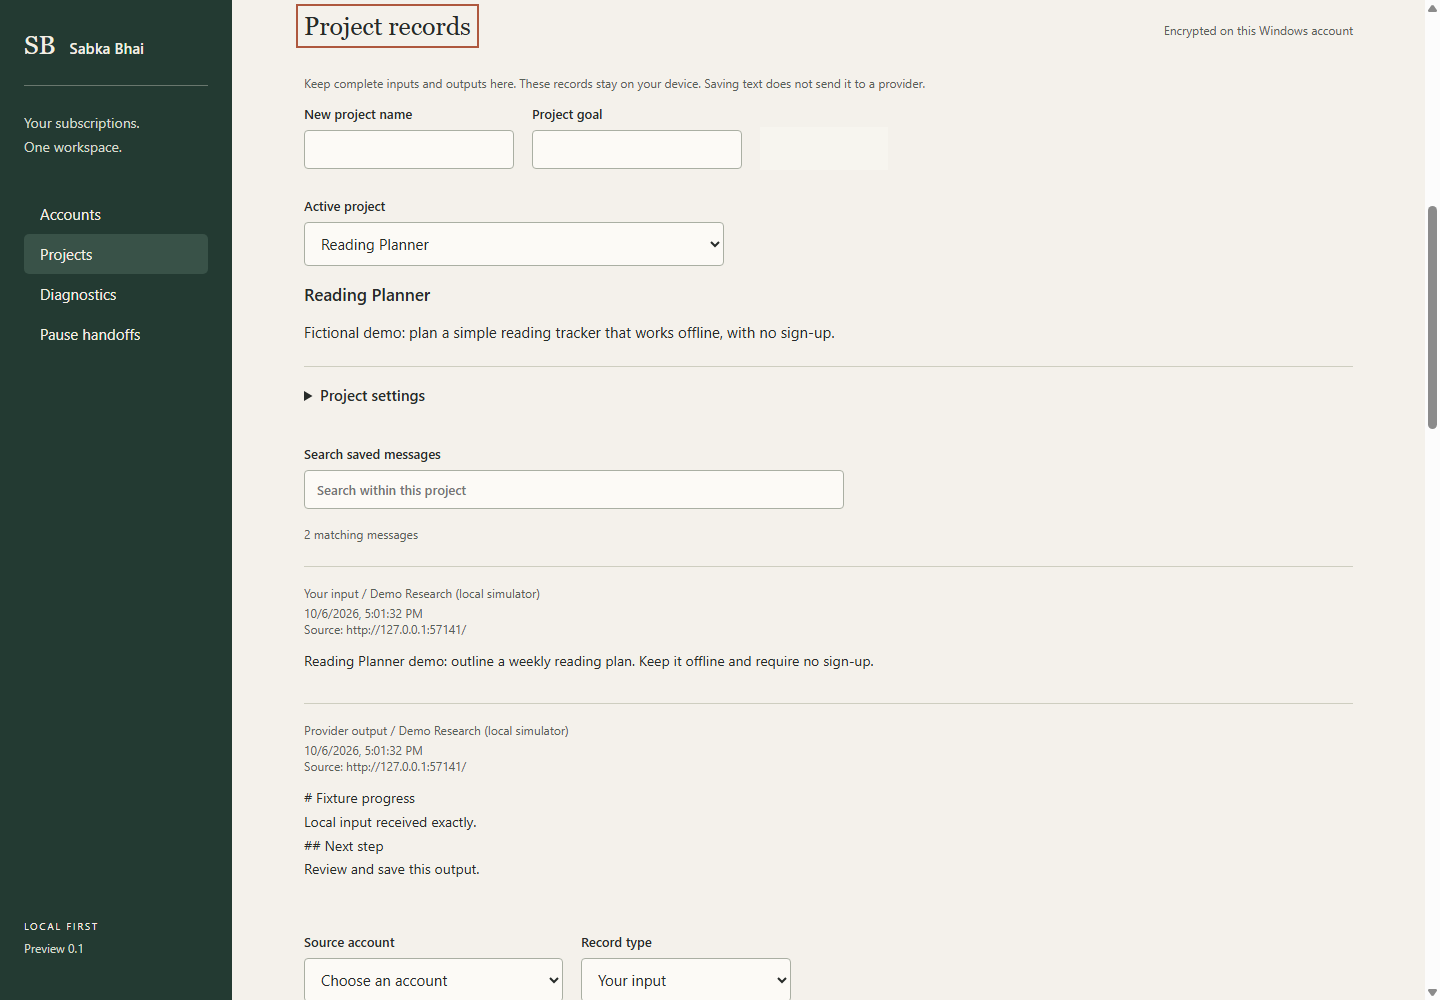
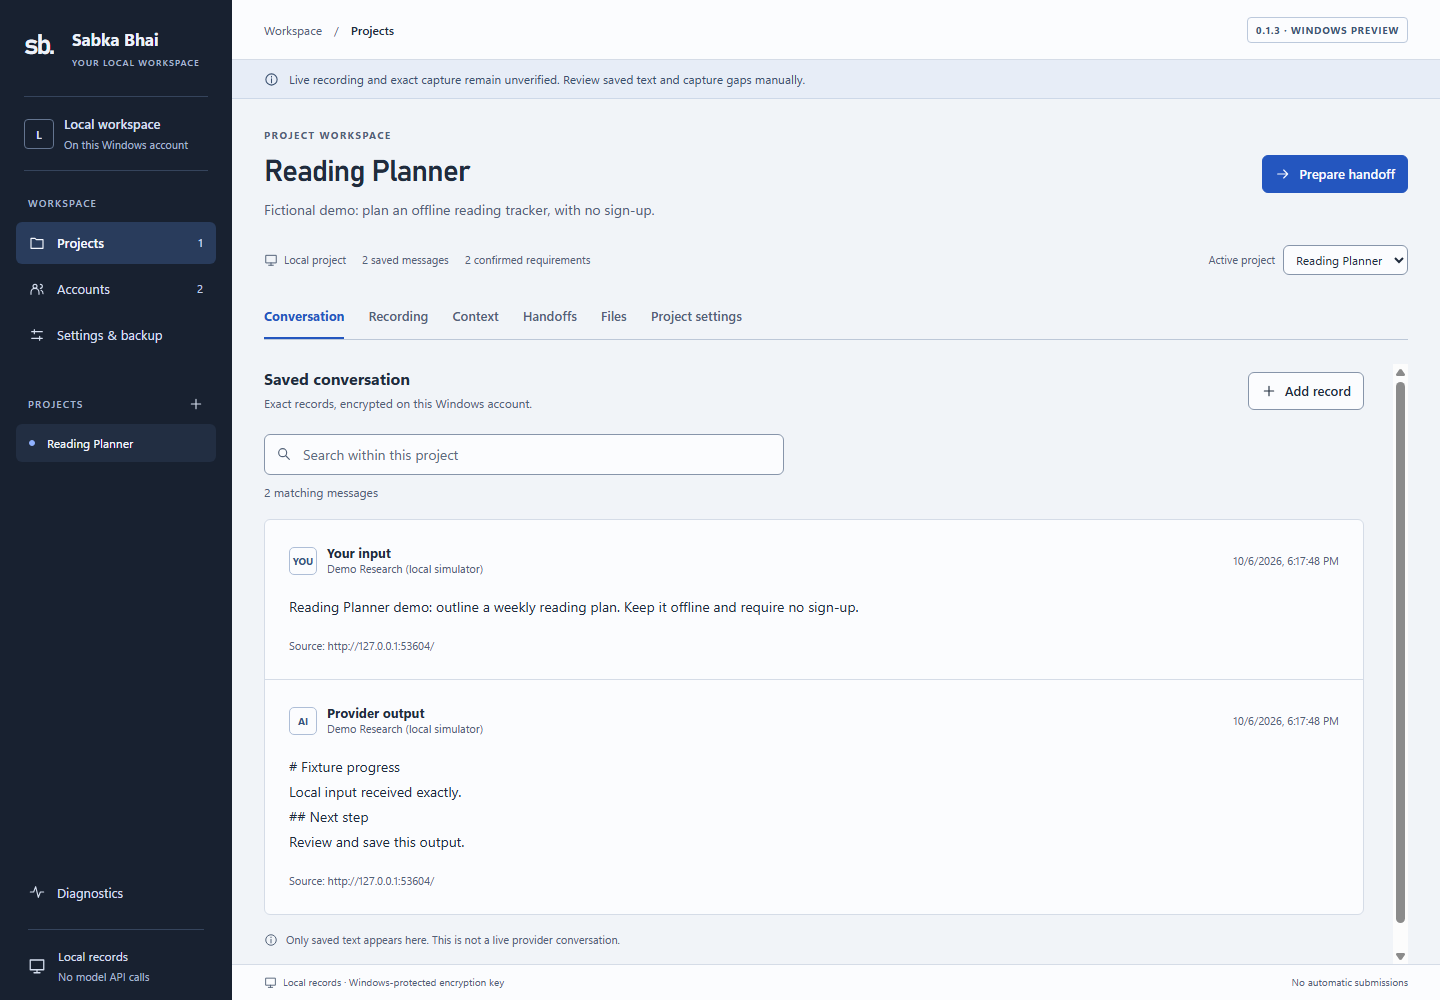
Showcase 0.1.3 enterprise UI and separate project tabs

diff --git a/README.md b/README.md
@@ -8,7 +8,7 @@ A Windows desktop application for keeping project context and conversation recor
 
 ![Reading Planner demo project with saved conversation records](images/01-project-workspace.png)
 
-*Actual application UI with fictional data from the built-in local simulator. No live AI provider is used in these screenshots.*
+*Actual 0.1.3 application UI with fictional data from the built-in local simulator. No live AI provider is used in these screenshots.*
 
 ## Why I built it
 
@@ -26,6 +26,12 @@ Sabka Bhai provides a local workspace for organizing that work. It keeps saved c
 - **Encrypted application records:** Store project records locally with a Windows-protected encryption key, with encrypted backup and recovery workflows.
 
 Account windows open without waiting for the entire website to finish loading, so a slow page does not keep the main workspace busy.
+
+## A workspace organized around the task
+
+Version 0.1.3 introduces graphite navigation, cool-light reading surfaces and separate project tabs: **Conversation, Recording, Context, Handoffs, Files and Project settings**. Accounts, backups and diagnostics have their own screens. Switching tabs changes the view instead of scrolling through unrelated controls.
+
+Search and unfinished form text stay with their project while navigating within the running app. Unsaved drafts are held in memory, not silently written to disk.
 
 ## A typical workflow
 
@@ -64,15 +70,15 @@ The application does not require model API keys or make model API calls. It does
 
 ## Current status
 
-**Windows preview, version 0.1.2.** The latest local verification passed:
+**Windows preview, version 0.1.3.** The latest local verification passed:
 
 | Test layer | Passed |
 | --- | ---: |
 | Unit tests | 104 |
-| Development Electron tests | 20 |
-| Packaged-executable tests | 5 |
+| Development Electron tests | 24 |
+| Packaged-executable tests | 6 |
 
-Checks cover session isolation, recording, backup/recovery, restart durability and browser-loading behavior. These results use controlled local fixtures; they do not establish full compatibility with live AI provider websites.
+Checks cover session isolation, recording, backup/recovery, restart durability, browser-loading behavior, tab navigation and draft retention. These results use controlled local fixtures; they do not establish full compatibility with live AI provider websites.
 
 ## Important boundaries
 
